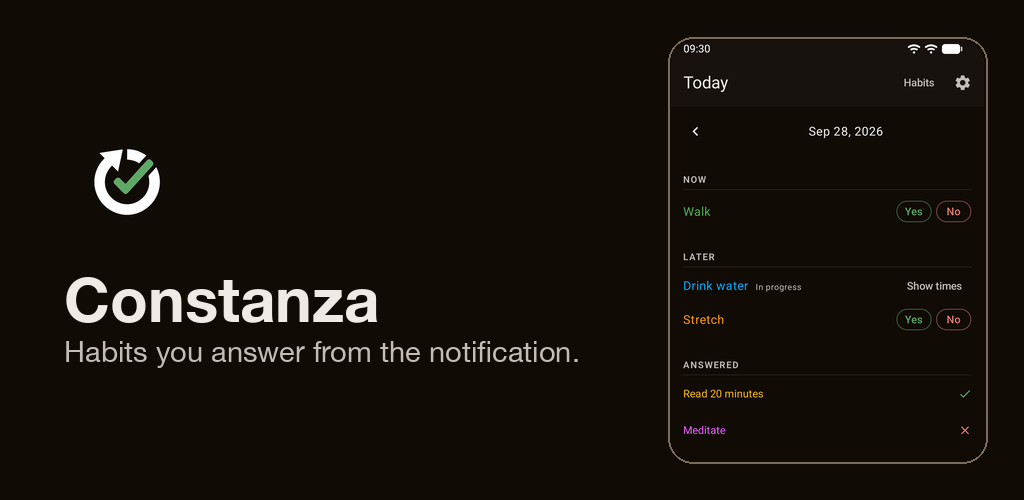
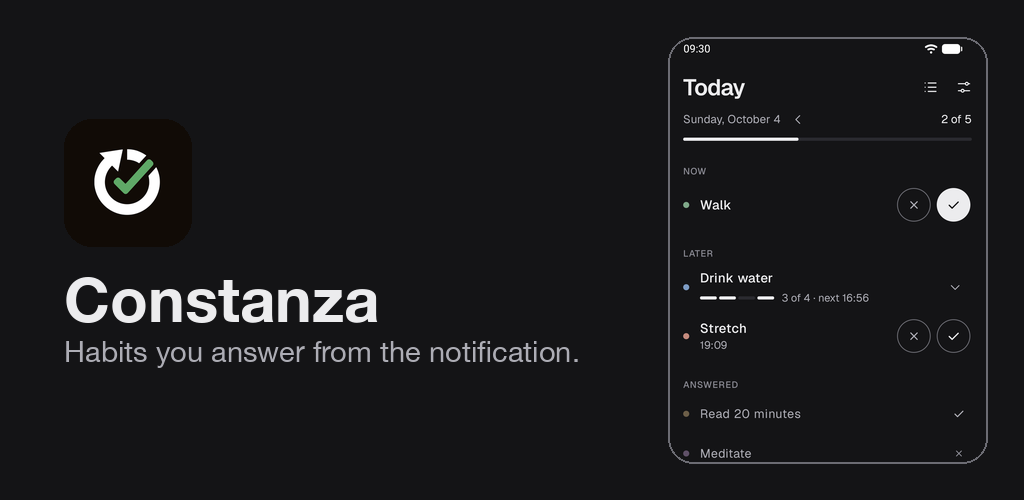
docs(store): regenerate the feature graphic on the graphite palette

diff --git a/scripts/generar-graficos.py b/scripts/generar-graficos.py
@@ -50,10 +50,10 @@ FACE_BOLD = 1
 
 # Paleta fija de la app — ConstanzaColors.kt (no hay tema claro: spec
 # "Dark-Only Rendering"). No se recalcula aquí: se copian los mismos ARGB.
-BACKGROUND = (0x11, 0x0B, 0x06)
-ON_BACKGROUND = (0xEF, 0xEA, 0xE6)
-ON_BACKGROUND_VARIANT = (0xC4, 0xBC, 0xB6)
-CONTROL_STROKE = (0x7A, 0x6B, 0x5D)
+BACKGROUND = (0x14, 0x14, 0x16)
+ON_BACKGROUND = (0xEC, 0xEC, 0xEE)
+ON_BACKGROUND_VARIANT = (0xAD, 0xAD, 0xB5)
+CONTROL_STROKE = (0x6C, 0x6C, 0x73)
 
 FEATURE_GRAPHIC_TEXT = {
     "es": "Hábitos que se contestan desde la notificación.",
